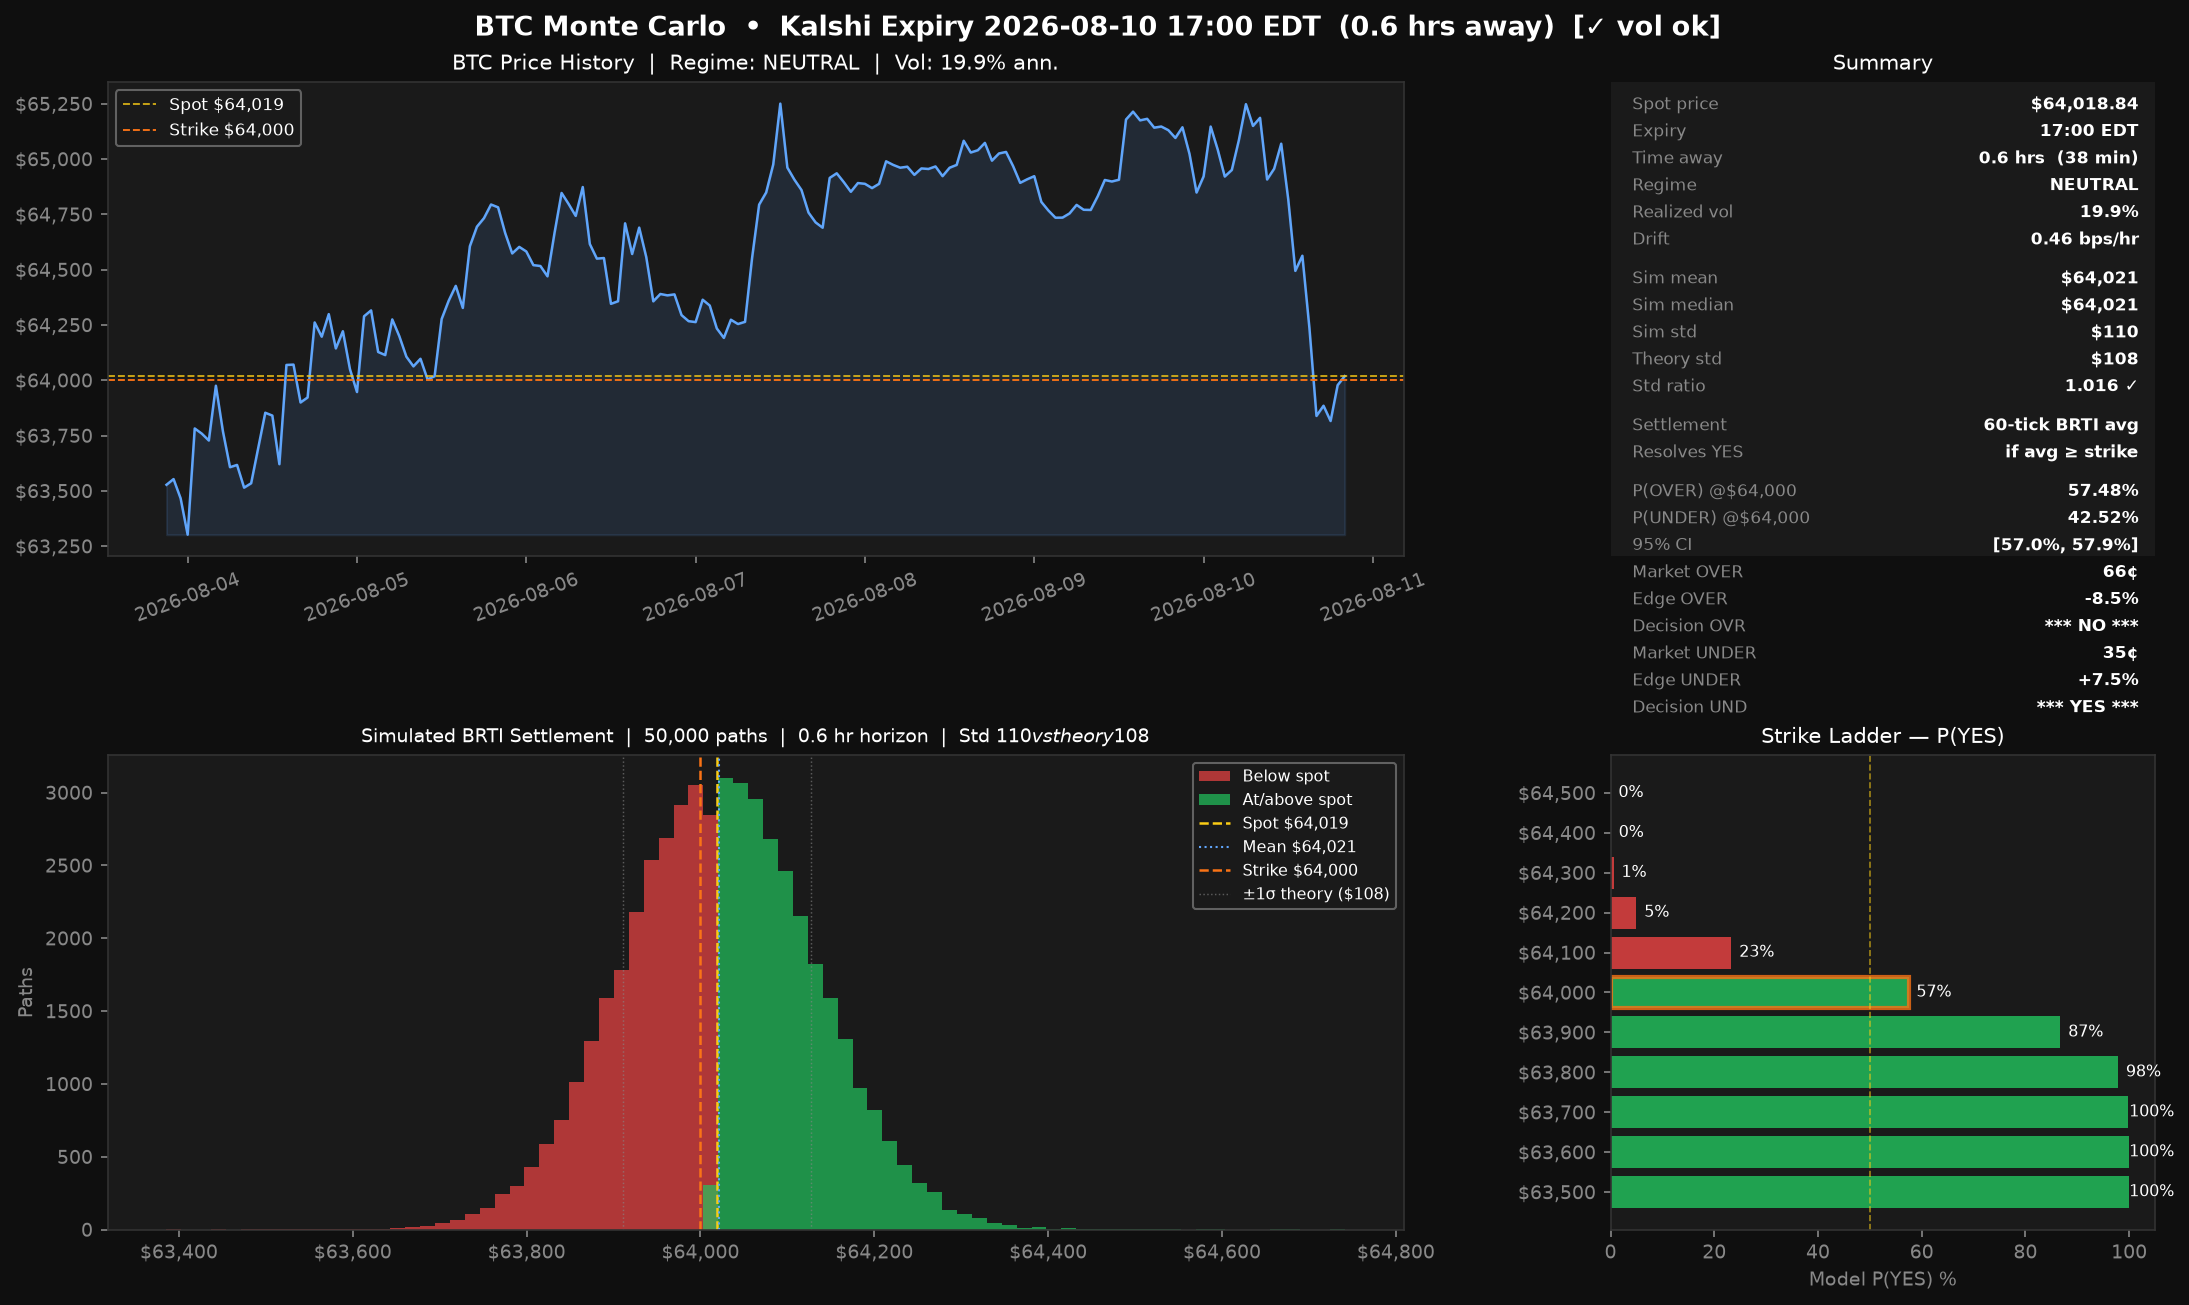
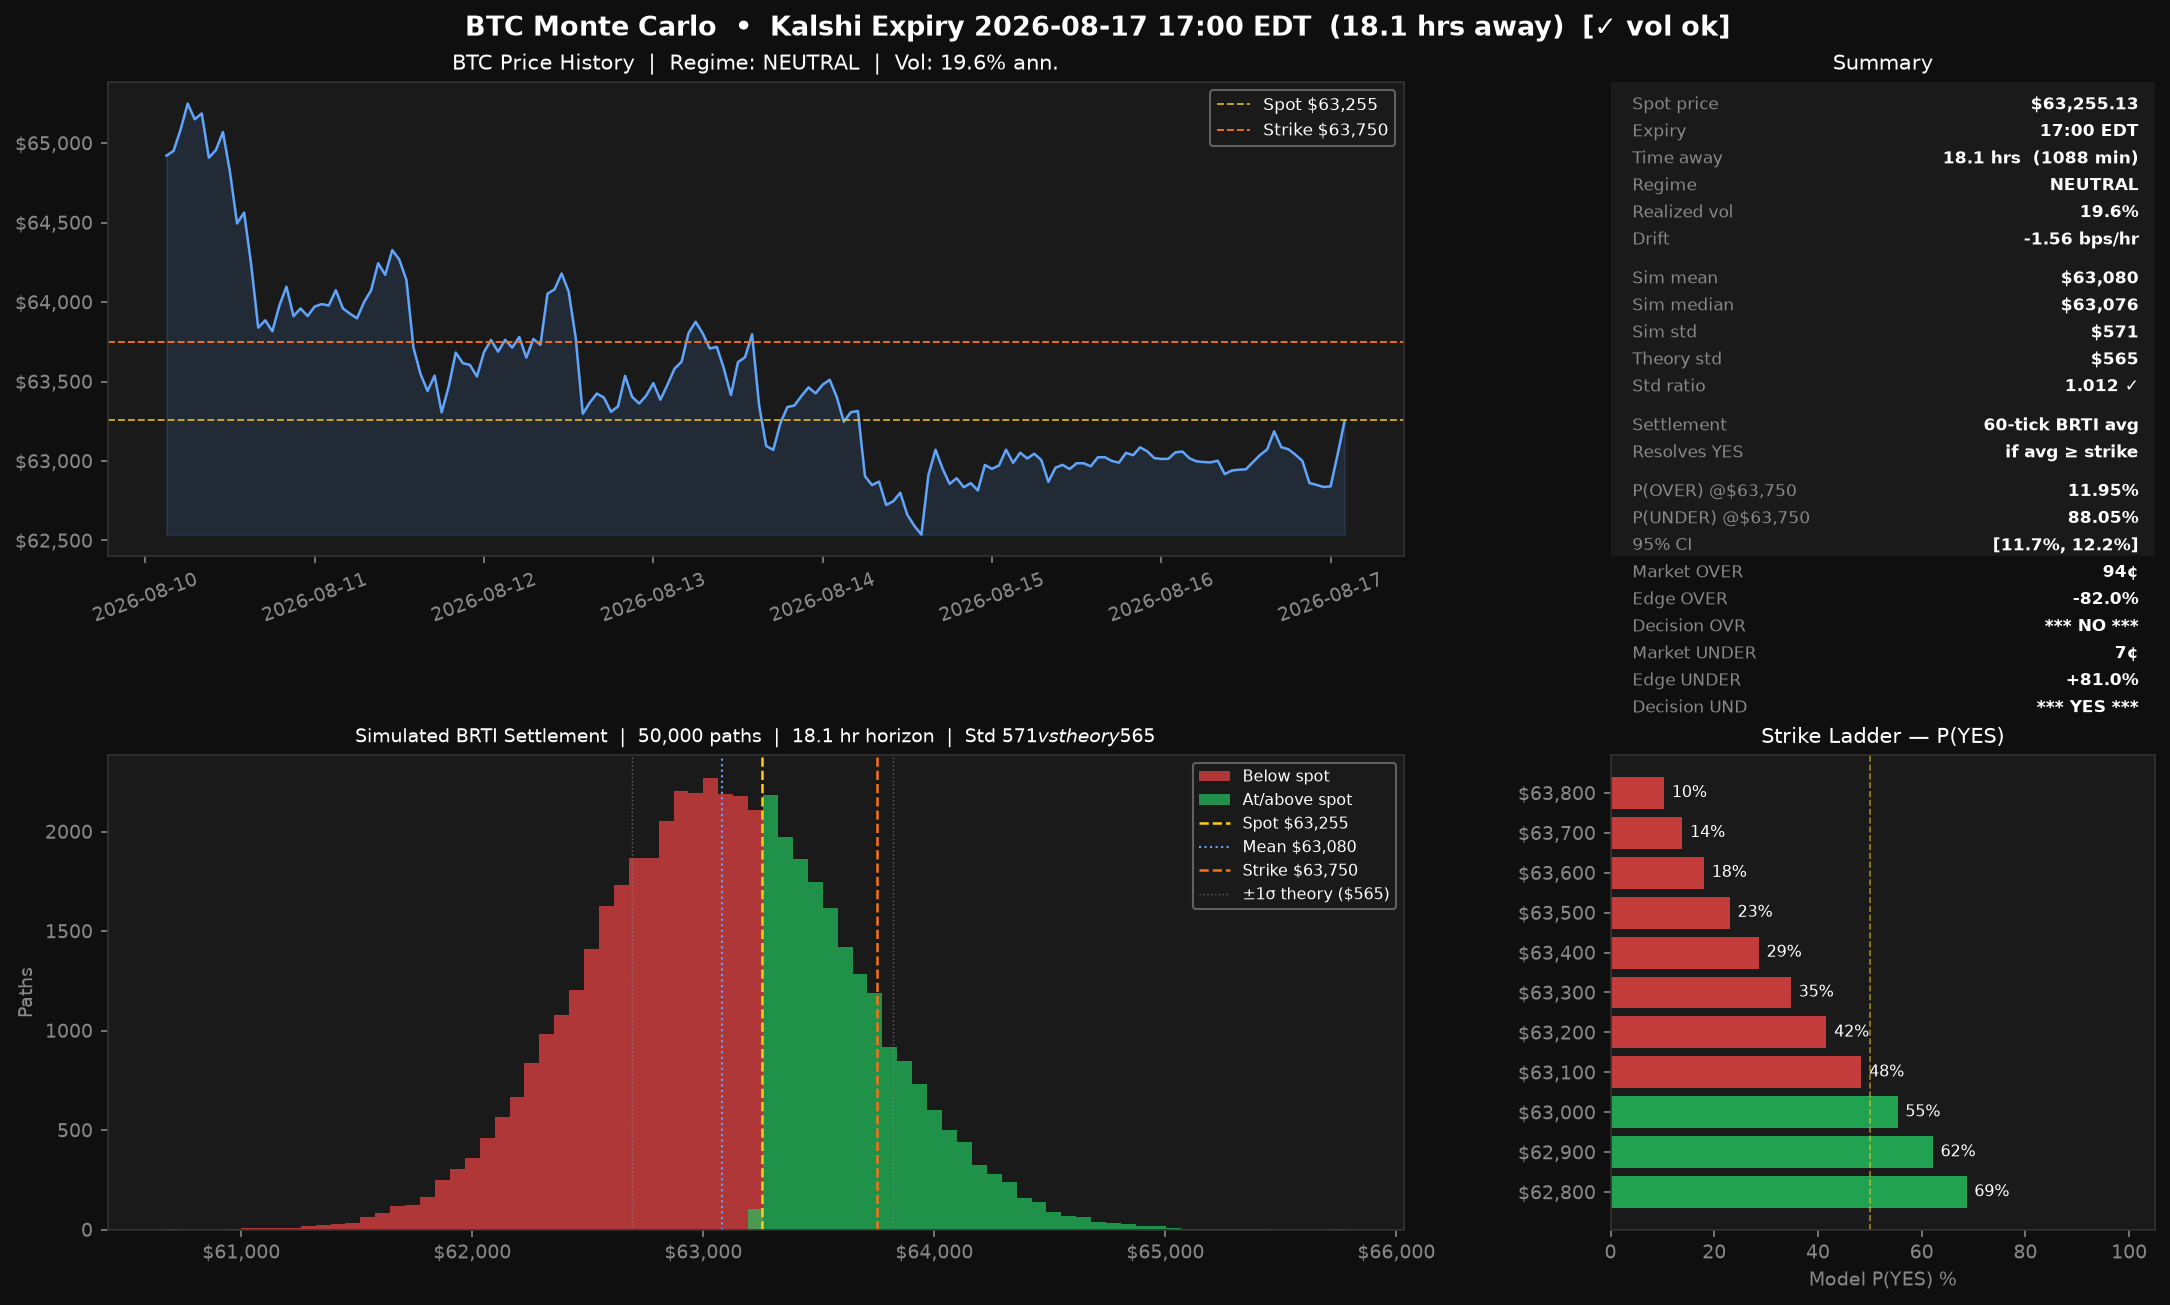
Output File Saved to examples/ folder
The output file for btc_monte_carlo.py is now saved to the examples/ folder locally.

diff --git a/btc_monte_carlo.py b/btc_monte_carlo.py
@@ -95,6 +95,9 @@ STRIKE_RANGE      = 500     # Show strikes from spot-500 to spot+500
 # Sanity check: warn if sim std deviates from theory by more than this
 SANITY_TOLERANCE  = 0.15    # 15%
 
+# Output, saves to the examples/ folder
+OUTPUT_FILE       = "examples/btc_monte_carlo_output.png"
+
 
 # ═══════════════════════════════════════════════════════
 #  EXPIRY TIME HELPERS
@@ -684,9 +687,9 @@ def plot_dashboard(candles: list[dict], settlement: np.ndarray,
                        bar.get_y() + bar.get_height() / 2,
                        f"{p:.0f}%", color="white", va="center", fontsize=7.5)
 
-    plt.savefig("btc_monte_carlo_output.png", dpi=150,
+    plt.savefig(OUTPUT_FILE, dpi=150,
                 bbox_inches="tight", facecolor="#0f0f0f")
-    print("  Chart saved → btc_monte_carlo_output.png")
+    print(f"  Chart saved → {OUTPUT_FILE}")
     plt.show()
 
 
